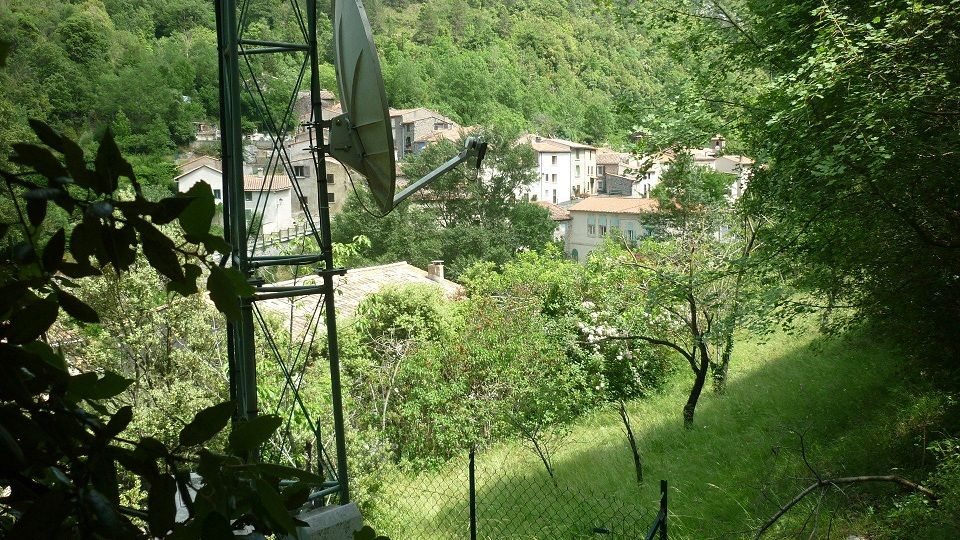
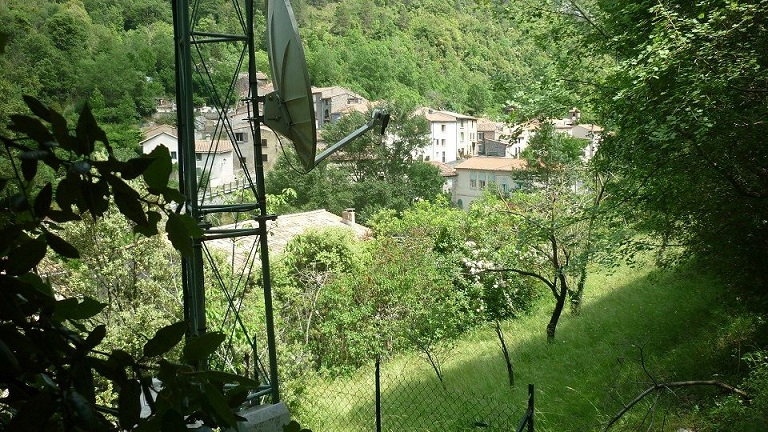
pour mobile

diff --git a/col-gages/col-gages.html b/col-gages/col-gages.html
@@ -2,14 +2,22 @@
 <html>
   <head>
     <meta charset="utf-8">
-    <title>Saint Martin col d'Agajos</title>
+    <title>Saint Martin col d'Agajos ou col de Gage</title>
 	<link href="../z-commun/styles/style.css" rel="stylesheet" type="text/css">
-    <link href="https://fonts.googleapis.com/css?family=Fascinate|Mountains+of+Christmas&display=swap" rel="stylesheet">      
+    <link href="https://fonts.googleapis.com/css?family=Fascinate|Mountains+of+Christmas&display=swap" rel="stylesheet">
+    <meta name="description" content="Saint Martin Lys, le col de Gage ou d'Agajos - Castel d'en Prat">
+    <meta name="viewport" content="width=device-width, initial-scale=1.0">
+    <link rel="shortcut icon" href="../st-martin.gif">           
   </head>
   <body>
-	<h1>Saint Martin Lys - col d'Agajos</h1>
+	<h1>Saint Martin Lys - col d'Agajos ou col de Gage</h1>
       <h2>Où trouver des champs suffisement plat pour survivre.</h2>
-      <p>Si St Martin est au fond de la vallée, pour piloter l'acheminement des coupes de la forêt des Fanges, les habitants de St Martin ont durant toujours chercher à s'autosuffire alimentairement. Le tour du village était insuffisant pour assurer la subsistance de la centaine d'habitants. Aussi les martinlysois ont colonisé chaque espace à peu près plat pour y ensemenser leurs cultures. C'est que planèses, le clot (partie basse du camp grant) et le col d'Agajos'. Bien que très éloignés du village (au moins 2 heures de marche) ont été cultivés par des martinlysois.<br>Le col d'Agajos' a la particularité d'être à plus de 700 m alors que le village est à 340 m d'altitude. Donc un très fort dénivelé. Pour le rejoindre aujourd'hui deux chemin, soit en prenant la route de Quirbajou au niveau du Rebenty, soit en prenant le chemin de Quirbajou qui mène à la croix et en continuant vers la croix sans s'éloigner du chemin (Il faut être au dessus de St Martin pour comprendre, mais sur place il n'y a pas de difficulté : le chemin du col d'Agajos restant mystérieusement le mieux tracé, bien que plus utilisé, sauf par des chasseurs de Quirbajou, depuis fort longtemps.<br>Sur la carte d'état major du début du XIX<sup>e</sup>s. il est fait mention sur le point culminant sur la bordure du plateau du col d'Agajos d'un castel. <br>Mission donnée à Paul de vérifier si des ruines ne se trouveraient pas sur ce point culminant, trace d'une occupation ancienne de ces champs. Je rajouterai une photo si on trouve quelque chose...</p>
+      <p>Si St Martin est au fond de la vallée, pour piloter l'acheminement des coupes de la forêt des Fanges, les habitants de St Martin ont durant toujours chercher à s'autosuffire alimentairement. Le tour du village était insuffisant pour assurer la subsistance de la centaine d'habitants. Aussi les martinlysois ont colonisé chaque espace à peu près plat pour y ensemenser leurs cultures. C'est pourquoi comme Planèses et le clot (partie basse du camp grant), le col de gage (nom donné par les Martinlysois) ou d'Agajos (préféré par les habitants de Quirbajou) - le nom changeant à la frontière des 2 communes...- , bien que très éloigné du village (au moins 2 heures de marche) et sans point d'eau de proximité a été cultivés par les martinlysois.<br>Ce "col" a la particularité d'être un plateau fertile à plus de 700 m d'altitude, alors que le village est à 340 m. Donc un très fort dénivelé. Pour le rejoindre aujourd'hui deux chemins possibles, soit en prenant la route de Quirbajou au niveau du Rebenty, soit en prenant le chemin de Quirbajou qui mène à la croix et en continuant vers la croix sans s'éloigner du chemin (Il faut être au dessus de St Martin pour comprendre, mais sur place il n'y a pas de difficulté : le chemin du col de gage restant mystérieusement le mieux tracé, bien que non utilisé, sauf par des chasseurs de Quirbajou, depuis fort longtemps.</p>
+      <img src="images/Cadastre%20col%20de%20gages.JPG" alt="St Martin Lys, le chemin du col de gage" width="698" height="462"> 
+      <p class="Legende-image">Le chemin en bleu est le chemin partant de St Martin Lys,<br>Le chemin en vert est celui de la route de Quirbajou, il commence sur une boucle de cette route</p>
+      
+      <p>Sur la carte d'état major du début du XIX<sup>e</sup>s, il est fait mention sur le point culminant sur la bordure du plateau du col d'Agajos d'un castel. (Castel-d'en-Prat, mont. (781), à la limite des communes de Cailla, Quirbajou et Saint-Martin-Lys.) <br>Mission donnée à Paul de vérifier si des ruines ne se trouveraient pas sur ce point culminant, trace d'une occupation ancienne de ces champs. Je rajouterai une photo si on trouve quelque chose...</p>
+      <img src="images/Etat%20Major.JPG" alt="St Martin Lys, carte d'état major - castel d'en Prat" width="444" height="362"> 
       <!--
       <p>Napoléon premier pour rendre grâce à l'action de Félix Armand pour ses travaux de percement de la route de la Pierre-Lys, lui écrivit une lettre de félicitations disant que "l'état deviendrait son trésorier et que rien ne lui manquerait, puisque entre les mains d'un prêtre le billon se changeait en or massif." <sup>1</sup> : à cette occasion, il donna un bon sur sa cassette et offrit le ciboire.<br>
       </p>

diff --git a/croix/croix.html b/croix/croix.html
@@ -6,7 +6,8 @@
 	<link href="../z-commun/styles/style.css" rel="stylesheet" type="text/css">
     <link href="https://fonts.googleapis.com/css?family=Fascinate|Mountains+of+Christmas&display=swap" rel="stylesheet">
     <meta name="description" content="Saint Martin Lys, la croix qui surplombe le village au couchant">
-    <link rel="shortcut icon" href="st-martin.gif">
+    <meta name="viewport" content="width=device-width, initial-scale=1.0">
+    <link rel="shortcut icon" href="../st-martin.gif">
   </head>
   <body>
 	<h1>Saint Martin Lys - <br>la Croix</h1>
@@ -23,7 +24,7 @@
       <p class="Legende-image">rocher de la croix, vue du village<br><br></p>
       
       <h3>Point de Vue de la croix</h3>
-      <p>Pour accéder à la croix prendre le <a href="../quirbajou/quirbajou.html">chemin de Quirbajou</a> / col d'Agajos qui part juste après les poubelles à gauche de la route et passe au dessus de "<a href="https://www.chambres-hotes.fr/chambres-hotes_aude-escape_saint-martin-lys_h3296116.htm">Aude Escape</a>", longe l'ancienne voie (dé)ferrée, passe sur le <a href="../tunnels/tunnels.html?#tunnel-du-couvent">petit tunnel</a> et fait le tour du massif. Même si le chemin n'est pas parfaitement entretenu..., il reste agréable avec des points de vue sympathique sur le Gal en particulier et l'entrée des gorges de la Pierre-lys. Arrivé quasiment au sommet du massif (cf photo) un chemin part vers la droite en direction de Quirbajou : préférer continuer tout droit. Après un passage du chemin en Z longeant le rocher à gauche, s'ouvre un espace plus dégagé avec de grands sapins, c'est le sommet du massif, même si le chemin continue de monter vers le col de gage.<br> regardez bien à votre gauche, il y a un espèce de chemin à lapin qui monte raide et passe à coté d'un grand sapin, monter. Vous vous trouvez alors sur un petit plateau qui descend en pente douce. Suivre la pente jusqu'à arriver à un petit à-pic. Alors à votre gauche entre 2 arbres, vous pourrez voir un petit sentier qui descend à presque 45 degrés, il faut le suivre. Une fois descendu, en restant à peu près à même hauteur sur une trentaine de mètres (il n'y a plus vraiment de chemin, peut-être un sentier ?), vous arriverez par hasard à la croix (on ne la voit pas à moins d'y avoir le nez dessus...) - elle se trouve sur la droite du pseudo sentier, mais quand on arrive au rocher on n'a pas vraiment le choix du chemin et on la trouve facilement.</p>
+      <p>Pour accéder à la croix prendre le <a href="../quirbajou/quirbajou.html">chemin de Quirbajou</a> / col de gage qui part juste après les poubelles à gauche de la route et passe au dessus de "<a href="https://www.chambres-hotes.fr/chambres-hotes_aude-escape_saint-martin-lys_h3296116.htm">Aude Escape</a>", longe l'ancienne voie (dé)ferrée, passe sur le <a href="../tunnels/tunnels.html?#tunnel-du-couvent">petit tunnel</a> et fait le tour du massif. Même si le chemin n'est pas parfaitement entretenu..., il reste agréable avec des points de vue sympathique sur le Gal en particulier et l'entrée des gorges de la Pierre-lys. Arrivé quasiment au sommet du massif (cf photo) un chemin part vers la droite en direction de Quirbajou : préférer continuer tout droit. Après un passage du chemin en Z longeant le rocher à gauche, s'ouvre un espace plus dégagé avec de grands sapins, c'est le sommet du massif, même si le chemin continue de monter vers le col de gage.<br> regardez bien à votre gauche, il y a un espèce de chemin à lapin qui monte raide et passe à coté d'un grand sapin, monter. Vous vous trouvez alors sur un petit plateau qui descend en pente douce. Suivre la pente jusqu'à arriver à un petit à-pic. Alors à votre gauche entre 2 arbres, vous pourrez voir un petit sentier qui descend à presque 45 degrés, il faut le suivre. Une fois descendu, en restant à peu près à même hauteur sur une trentaine de mètres (il n'y a plus vraiment de chemin, peut-être un sentier ?), vous arriverez par hasard à la croix (on ne la voit pas à moins d'y avoir le nez dessus...) - elle se trouve sur la droite du pseudo sentier, mais quand on arrive au rocher on n'a pas vraiment le choix du chemin et on la trouve facilement.</p>
       <img src="images/plan%20cadastral.JPG" alt="St Martin Lys, le plan cadastral pour se rendre à la croix" width="742" height="480">
       <p class="Legende-image">le plan cadastral pour se rendre à la croix<br>le tracé à suivre est dessiné en rouge</p>
       <img src="images/P1080303%20la%20croix.JPG" alt="St Martin Lys, la croix" width="689" height="518"> 

diff --git a/temps/temps.html b/temps/temps.html
@@ -5,12 +5,44 @@
     <title>Saint Martin temps</title>
 	<link href="../z-commun/styles/style.css" rel="stylesheet" type="text/css">
     <link href="https://fonts.googleapis.com/css?family=Fascinate|Mountains+of+Christmas&display=swap" rel="stylesheet">      
+    <meta name="description" content="Saint Martin Lys, frise du temps pour classer les événement, les personnalités (maires, curés...)">
+    <meta name="viewport" content="width=device-width, initial-scale=1.0">
+    <link rel="shortcut icon" href="../st-martin.gif">
   </head>
   <body>
 	<h1>Saint Martin Lys - frise du temps</h1>
       <h2>Pour replacer dans le temps les grandes dates du village.</h2>
       <p></p>
+      
       <!--
+<sup>4</sup>"<a href="https://ia800208.us.archive.org/0/items/dictionnairetopo00sabauoft/dictionnairetopo00sabauoft.pdf">Dictionnaire topographique du département de l'Aude comprenant les noms de lieu anciens et modernes</a>" par l'abbé SABARTHÈS)</p>
+
+Saint-Martin-Lys, commune, canton de Quillan; égl. paroiss. dédiée à saint Martin. Il y eut, jusqu'en 1070, une abbaye de bénédictins; à cette date, elle devint un simple prieuré conventuel dépendant de l'abbaye de Sainl-Pons-dc-TliomiiTi;s ( lier. ); scncrii. de Limoiix. C'esl à tort ipie Thomas (l)icl. topogr. lier.) identifie cette abliayc avec Saint- Martin-Lez; c'est aiis^i à tort (pie la carto d'État najor appelle ce lieu .S'nm(-,Wnr(i;i-(/c-7'ni»jac; cette dernière localité est aujourd'hui située dans \e» Pyrénées-Orientales, c"" de S.-Paul-de-FenouilIel,
+(^ette erreur provient d'une mauvaise rédaction du
+bulletin des lois (Duvergier, XIII, 45; arrêté du 13 brumaire an x). — Doinu» Sancti Martini,
+cujus hasilica sita est m tn-ritorio Fenioleleiue
+,
+898 (II. L., V, pp. 19, s°). — Mnruisteriwn
+Sancti .Martini qund vocatur Alenis, gSS (Gall.
+christ., VI, Instr., c. io4). Ecclesia Sancti Martini quae vocalur Fussados, 95'S (Mah. , I, 78). — Cienobiujn Sancti Martini de Lenis , 1 o38 ( H.
+L. , V, pr. a 1 6 , I "
+). — Coennbiuin almi confesioris
+et presulis Martini, i/uml rsl fundatuni . . ., in valle
+antiijuitus mcala llidiecarne, qtioil alio nomine
+rocatur Lenis, io4.j (ibid., \, pr. 224). —
+Sanctus Martinus de Petra Lesia, i36o (arch. Aude, G 2, f. Sa). — Sainct Martin de la Pierre, 1547 (arch. com. !Varh., Invent. Rocq., I, 683). — Sainct .Martin, quarante maisoni pauiTement
+basties, ensemble vmgt-qunlre palus, ayant ledit
+lieu este brusle, les guerres passées, par ceux de
+la religion préthendue rejjorinée, \hi)'t (arch. Aude. C, rech. dioc. Alet, f. 1 14). — Sainct Martin del Lez .,., maison de Samct Martin del Lez, assise an
+lieu dit à la val de Volcarnie . . ., Samct Martin
+del Lez à présent Sainct Martin de la Pierre, 1639 (arch. com. Narb., Invent. Rocq., III,
+II. ii.'i et 370). — Sanctus )larlinus de Leso, laoS-Aviii" s. ((jall. christ.. M, c. 291). —
+Saint Martin d" Piei-re Lis. 1781 (C. dioc. Alet). Les ruines de l'abbaye sont appelées dans le ca- das(re : le Couvent (sect. 15); c'est à tort que la
+carte du diocèse d'Alet (1781) écrit Courondes.
+qui était une localité de la c"' de Cailla.
+
+
+
       <p>Napoléon premier pour rendre grâce à l'action de Félix Armand pour ses travaux de percement de la route de la Pierre-Lys, lui écrivit une lettre de félicitations disant que "l'état deviendrait son trésorier et que rien ne lui manquerait, puisque entre les mains d'un prêtre le billon se changeait en or massif." <sup>1</sup> : à cette occasion, il donna un bon sur sa cassette et offrit le ciboire.<br>
       </p>
       <img src="images/P1210706%20ciboire.JPG" alt="St Martin Lys, le ciboire de Napoléon" width="518" height="689"> 

diff --git a/abbaye/abbaye.html b/abbaye/abbaye.html
@@ -4,14 +4,20 @@
     <meta charset="utf-8">
     <title>Saint Martin abbaye</title>
 	<link href="../z-commun/styles/style.css" rel="stylesheet" type="text/css">
-    <link href="https://fonts.googleapis.com/css?family=Fascinate|Mountains+of+Christmas&display=swap" rel="stylesheet">      
+    <link href="https://fonts.googleapis.com/css?family=Fascinate|Mountains+of+Christmas&display=swap" rel="stylesheet">  
+    <meta name="description" content="Saint Martin Lys, l'ancienne abbaye de bénédictins, couvent ou monastère">
+    <meta name="viewport" content="width=device-width, initial-scale=1.0">
+    <link rel="shortcut icon" href="../st-martin.gif">
+
   </head>
   <body>
-	<h1>Saint Martin Lys - abbaye</h1>
+	<h1>Saint Martin Lys - Abbaye</h1>
       <h2>Où les moines chantent tous les 15 août</h2>
       <p>Plus souvent appelé "couvent" dans la documentation plus ancienne comme les cartes d'état major du début du XIX<sup>e</sup>s. Traditionnellement c'est avec ce vocable que le lieu était nommé par les martinlysois eux-même jusqu'il y a peu. Puis la mode du 15 août nous a amené beaucoup d'experts qui nous ont révélé qu'on ne pouvait pas appeler couvent une institution d'homme. Alors le vocable "monastère" a commencé par rentrer dans les moeurs. Pour finir aujourd'hui, grace au panneau signalitique apposé au village, par être appelé "abbaye" ce qui était au fond la destination originelle de ce batiment (même si en 1573 ce n'était vraisemblablement plus qu'un prieuré hébergeant une quinzaine de moines).
       Mais à l'époque les ruines devaient en être encore imposantes d'après les témoingnages que nous en avons.</p>
       <!--
+https://normal-paranormal.skyrock.com/3043882465-Les-moines-chantants-Aude.html
+
       <p>Napoléon premier pour rendre grâce à l'action de Félix Armand pour ses travaux de percement de la route de la Pierre-Lys, lui écrivit une lettre de félicitations disant que "l'état deviendrait son trésorier et que rien ne lui manquerait, puisque entre les mains d'un prêtre le billon se changeait en or massif." <sup>1</sup> : à cette occasion, il donna un bon sur sa cassette et offrit le ciboire.<br>
       </p>
       <img src="images/P1210706%20ciboire.JPG" alt="St Martin Lys, le ciboire de Napoléon" width="518" height="689"> 

diff --git a/chambres/chambres.html b/chambres/chambres.html
@@ -4,12 +4,17 @@
     <meta charset="utf-8">
     <title>Saint Martin chambres d'hôtes</title>
 	<link href="../z-commun/styles/style.css" rel="stylesheet" type="text/css">
-    <link href="https://fonts.googleapis.com/css?family=Fascinate|Mountains+of+Christmas&display=swap" rel="stylesheet">      
+    <link href="https://fonts.googleapis.com/css?family=Fascinate|Mountains+of+Christmas&display=swap" rel="stylesheet">
+    <meta name="description" content="Saint Martin Lys, l'ancienne pêcherie dans une ancienne boucle de l'Aude">
+    <meta name="viewport" content="width=device-width, initial-scale=1.0">
+    <link rel="shortcut icon" href="../st-martin.gif">
+    
   </head>
   <body>
 	<h1>Saint Martin Lys - chambres d'hôtes</h1>
       <h2>Possibilité de nuitées sur place</h2>
-      <p></p>
+      <p>En particulier vous pourrez trouver jusqu'à 3 chambres dans la nouvelle maison d'hotes "<a href="https://www.chambres-hotes.fr/chambres-hotes_aude-escape_saint-martin-lys_h3296116.htm">Aude Escape</a>", dernière maison à gauche sur la route départementale en allant vers Quillan (ou première à droite en venant de Quillan...)</p>
+      <p>D'Autres locations sont possible au village, mais moins facile d'improviser un séjour.</p>
       <!--
       <p>Napoléon premier pour rendre grâce à l'action de Félix Armand pour ses travaux de percement de la route de la Pierre-Lys, lui écrivit une lettre de félicitations disant que "l'état deviendrait son trésorier et que rien ne lui manquerait, puisque entre les mains d'un prêtre le billon se changeait en or massif." <sup>1</sup> : à cette occasion, il donna un bon sur sa cassette et offrit le ciboire.<br>
       </p>

diff --git a/perso-felix-armand/perso-felix-armand.html b/perso-felix-armand/perso-felix-armand.html
@@ -5,12 +5,18 @@
     <title>Saint Martin Felix Armand</title>
 	<link href="../z-commun/styles/style.css" rel="stylesheet" type="text/css">
     <link href="https://fonts.googleapis.com/css?family=Fascinate|Mountains+of+Christmas&display=swap" rel="stylesheet">      
+    <meta name="description" content="Saint Martin Lys, Personnalité - Félix Armand">
+    <meta name="viewport" content="width=device-width, initial-scale=1.0">
+    <link rel="shortcut icon" href="../st-martin.gif">
   </head>
   <body>
 	<h1>Saint Martin Lys - Felix Armand</h1>
       <h2>Le passe muraille</h2>
       <p></p>
       <!--
+Louis Cardaillac, Félix Armand et son temps, Un siècle d'histoire dans les Pyrénées Audoises (1740-1840), Montfort-sur-Boulzane, L. Cardaillac, 2011, 253 p. (ISBN 978-2-7466-3701-6)
+
+cadastre https://france-cadastre.fr/detailplan/997e59495dbf0a114b54147ea6296c41.pdf
       <p>Napoléon premier pour rendre grâce à l'action de Félix Armand pour ses travaux de percement de la route de la Pierre-Lys, lui écrivit une lettre de félicitations disant que "l'état deviendrait son trésorier et que rien ne lui manquerait, puisque entre les mains d'un prêtre le billon se changeait en or massif." <sup>1</sup> : à cette occasion, il donna un bon sur sa cassette et offrit le ciboire.<br>
       </p>
       <img src="images/P1210706%20ciboire.JPG" alt="St Martin Lys, le ciboire de Napoléon" width="518" height="689"> 

diff --git a/television/television.html b/television/television.html
@@ -6,7 +6,8 @@
 	<link href="../z-commun/styles/style.css" rel="stylesheet" type="text/css">
     <link href="https://fonts.googleapis.com/css?family=Fascinate|Mountains+of+Christmas&display=swap" rel="stylesheet">
     <meta name="description" content="Saint Martin Lys, la télévision et le téléphone">
-    <link rel="shortcut icon" href="st-martin.gif">
+    <meta name="viewport" content="width=device-width, initial-scale=1.0">
+    <link rel="shortcut icon" href="../st-martin.gif">
   </head>
   <body>
 	<h1>Saint Martin Lys - la télé et le téléphone à St Martin</h1>
@@ -24,7 +25,7 @@
       
       <p>Après ce premier relai et les péripéties liées aux orages, est venu l'époque du satellite. Noël Rios a fait installer un relai de proximité herzien captant les ondes satellites.</p>
       
-      <img src="images/St%20Martin%20-%20relai%20t%C3%A9l%C3%A9.JPG" alt="St Martin Lys, le relai de proximité herzien" width="960" height="540"> 
+      <img src="images/St%20Martin%20-%20relai%20t%C3%A9l%C3%A9.JPG" alt="St Martin Lys, le relai de proximité herzien" width="768" height="432"> 
       <p class="Legende-image">Le relai de proximité herzien</p>
       
       <p>Puis vint l'ère du numérique...</p>

diff --git a/ecole/ecole.html b/ecole/ecole.html
@@ -5,9 +5,10 @@
     <title>Saint Martin Lys l'école</title>
 	<link href="../z-commun/styles/style.css" rel="stylesheet" type="text/css">
     <link href="https://fonts.googleapis.com/css?family=Fascinate|Mountains+of+Christmas&display=swap" rel="stylesheet">
-    <link rel="shortcut icon" href="st-martin.gif">
-    <meta name="description" content="Saint Martin Lys, l'ancienne école">
-    <meta property="og:image" content="st-martin.gif">
+    <link rel="shortcut icon" href="../st-martin.gif">
+    <meta name="description" content="Saint Martin Lys, l'ancienne école devenue Mairie">
+    <meta name="viewport" content="width=device-width, initial-scale=1.0">
+    <meta property="og:image" content="../st-martin.gif">
   </head>
   <body>
 	<h1>Saint Martin Lys - l'école</h1>

diff --git a/port/port.html b/port/port.html
@@ -4,7 +4,11 @@
     <meta charset="utf-8">
     <title>Saint Martin Lys Port-Place de l'ancienne école</title>
 	<link href="../z-commun/styles/style.css" rel="stylesheet" type="text/css">
-    <link href="https://fonts.googleapis.com/css?family=Fascinate|Mountains+of+Christmas&display=swap" rel="stylesheet">      
+    <link href="https://fonts.googleapis.com/css?family=Fascinate|Mountains+of+Christmas&display=swap" rel="stylesheet">
+    <meta name="description" content="Saint Martin Lys, le port de départ des carassiers, la place de l'ancienne école">
+    <meta name="viewport" content="width=device-width, initial-scale=1.0">
+    <link rel="shortcut icon" href="../st-martin.gif">
+
   </head>
   <body>
 	<h1>Saint Martin Lys - Port (ou place de l'ancienne école)</h1>

diff --git a/col-stmartin/col-stmartin.html b/col-stmartin/col-stmartin.html
@@ -4,7 +4,11 @@
     <meta charset="utf-8">
     <title>Saint Martin col</title>
 	<link href="../z-commun/styles/style.css" rel="stylesheet" type="text/css">
-    <link href="https://fonts.googleapis.com/css?family=Fascinate|Mountains+of+Christmas&display=swap" rel="stylesheet">      
+    <link href="https://fonts.googleapis.com/css?family=Fascinate|Mountains+of+Christmas&display=swap" rel="stylesheet">
+    <link rel="shortcut icon" href="st-martin.gif">      
+    <meta name="description" content="Saint Martin Lys, col de Saint Martin accédant à la forêt des Fanges">
+    <meta name="viewport" content="width=device-width, initial-scale=1.0">
+    <link rel="shortcut icon" href="../st-martin.gif">
   </head>
   <body>
 	<h1>Saint Martin Lys - <br>Col de St Martin</h1>

diff --git a/lapradelle/lapradelle.html b/lapradelle/lapradelle.html
@@ -4,7 +4,10 @@
     <meta charset="utf-8">
     <title>Saint Martin Lapradelle</title>
 	<link href="../z-commun/styles/style.css" rel="stylesheet" type="text/css">
-    <link href="https://fonts.googleapis.com/css?family=Fascinate|Mountains+of+Christmas&display=swap" rel="stylesheet">      
+    <link href="https://fonts.googleapis.com/css?family=Fascinate|Mountains+of+Christmas&display=swap" rel="stylesheet">
+    <meta name="description" content="Saint Martin Lys, l'ancien chemin de Lapradelle passant par le col du Pas del Taïchou, le Camp Grant, au dessus d'Artozoul">
+    <meta name="viewport" content="width=device-width, initial-scale=1.0">
+    <link rel="shortcut icon" href="../st-martin.gif">
   </head>
   <body>
 	<h1>Saint Martin Lys - chemin de Lapradelle</h1>

diff --git a/perso-marguerite-bezia/marguerite-bezia.html b/perso-marguerite-bezia/marguerite-bezia.html
@@ -4,7 +4,10 @@
     <meta charset="utf-8">
     <title>Saint Martin Lys Marguerite Bezia</title>
 	<link href="../z-commun/styles/style.css" rel="stylesheet" type="text/css">
-    <link href="https://fonts.googleapis.com/css?family=Fascinate|Mountains+of+Christmas&display=swap" rel="stylesheet">      
+    <link href="https://fonts.googleapis.com/css?family=Fascinate|Mountains+of+Christmas&display=swap" rel="stylesheet">
+    <meta name="description" content="Saint Martin Lys, Personnalité - Marguerite Bézia">
+    <meta name="viewport" content="width=device-width, initial-scale=1.0">
+    <link rel="shortcut icon" href="../st-martin.gif">
   </head>
   <body>
 	<h1>Saint Martin Lys - Personnalité - <br>Marguerite Bézia</h1>
